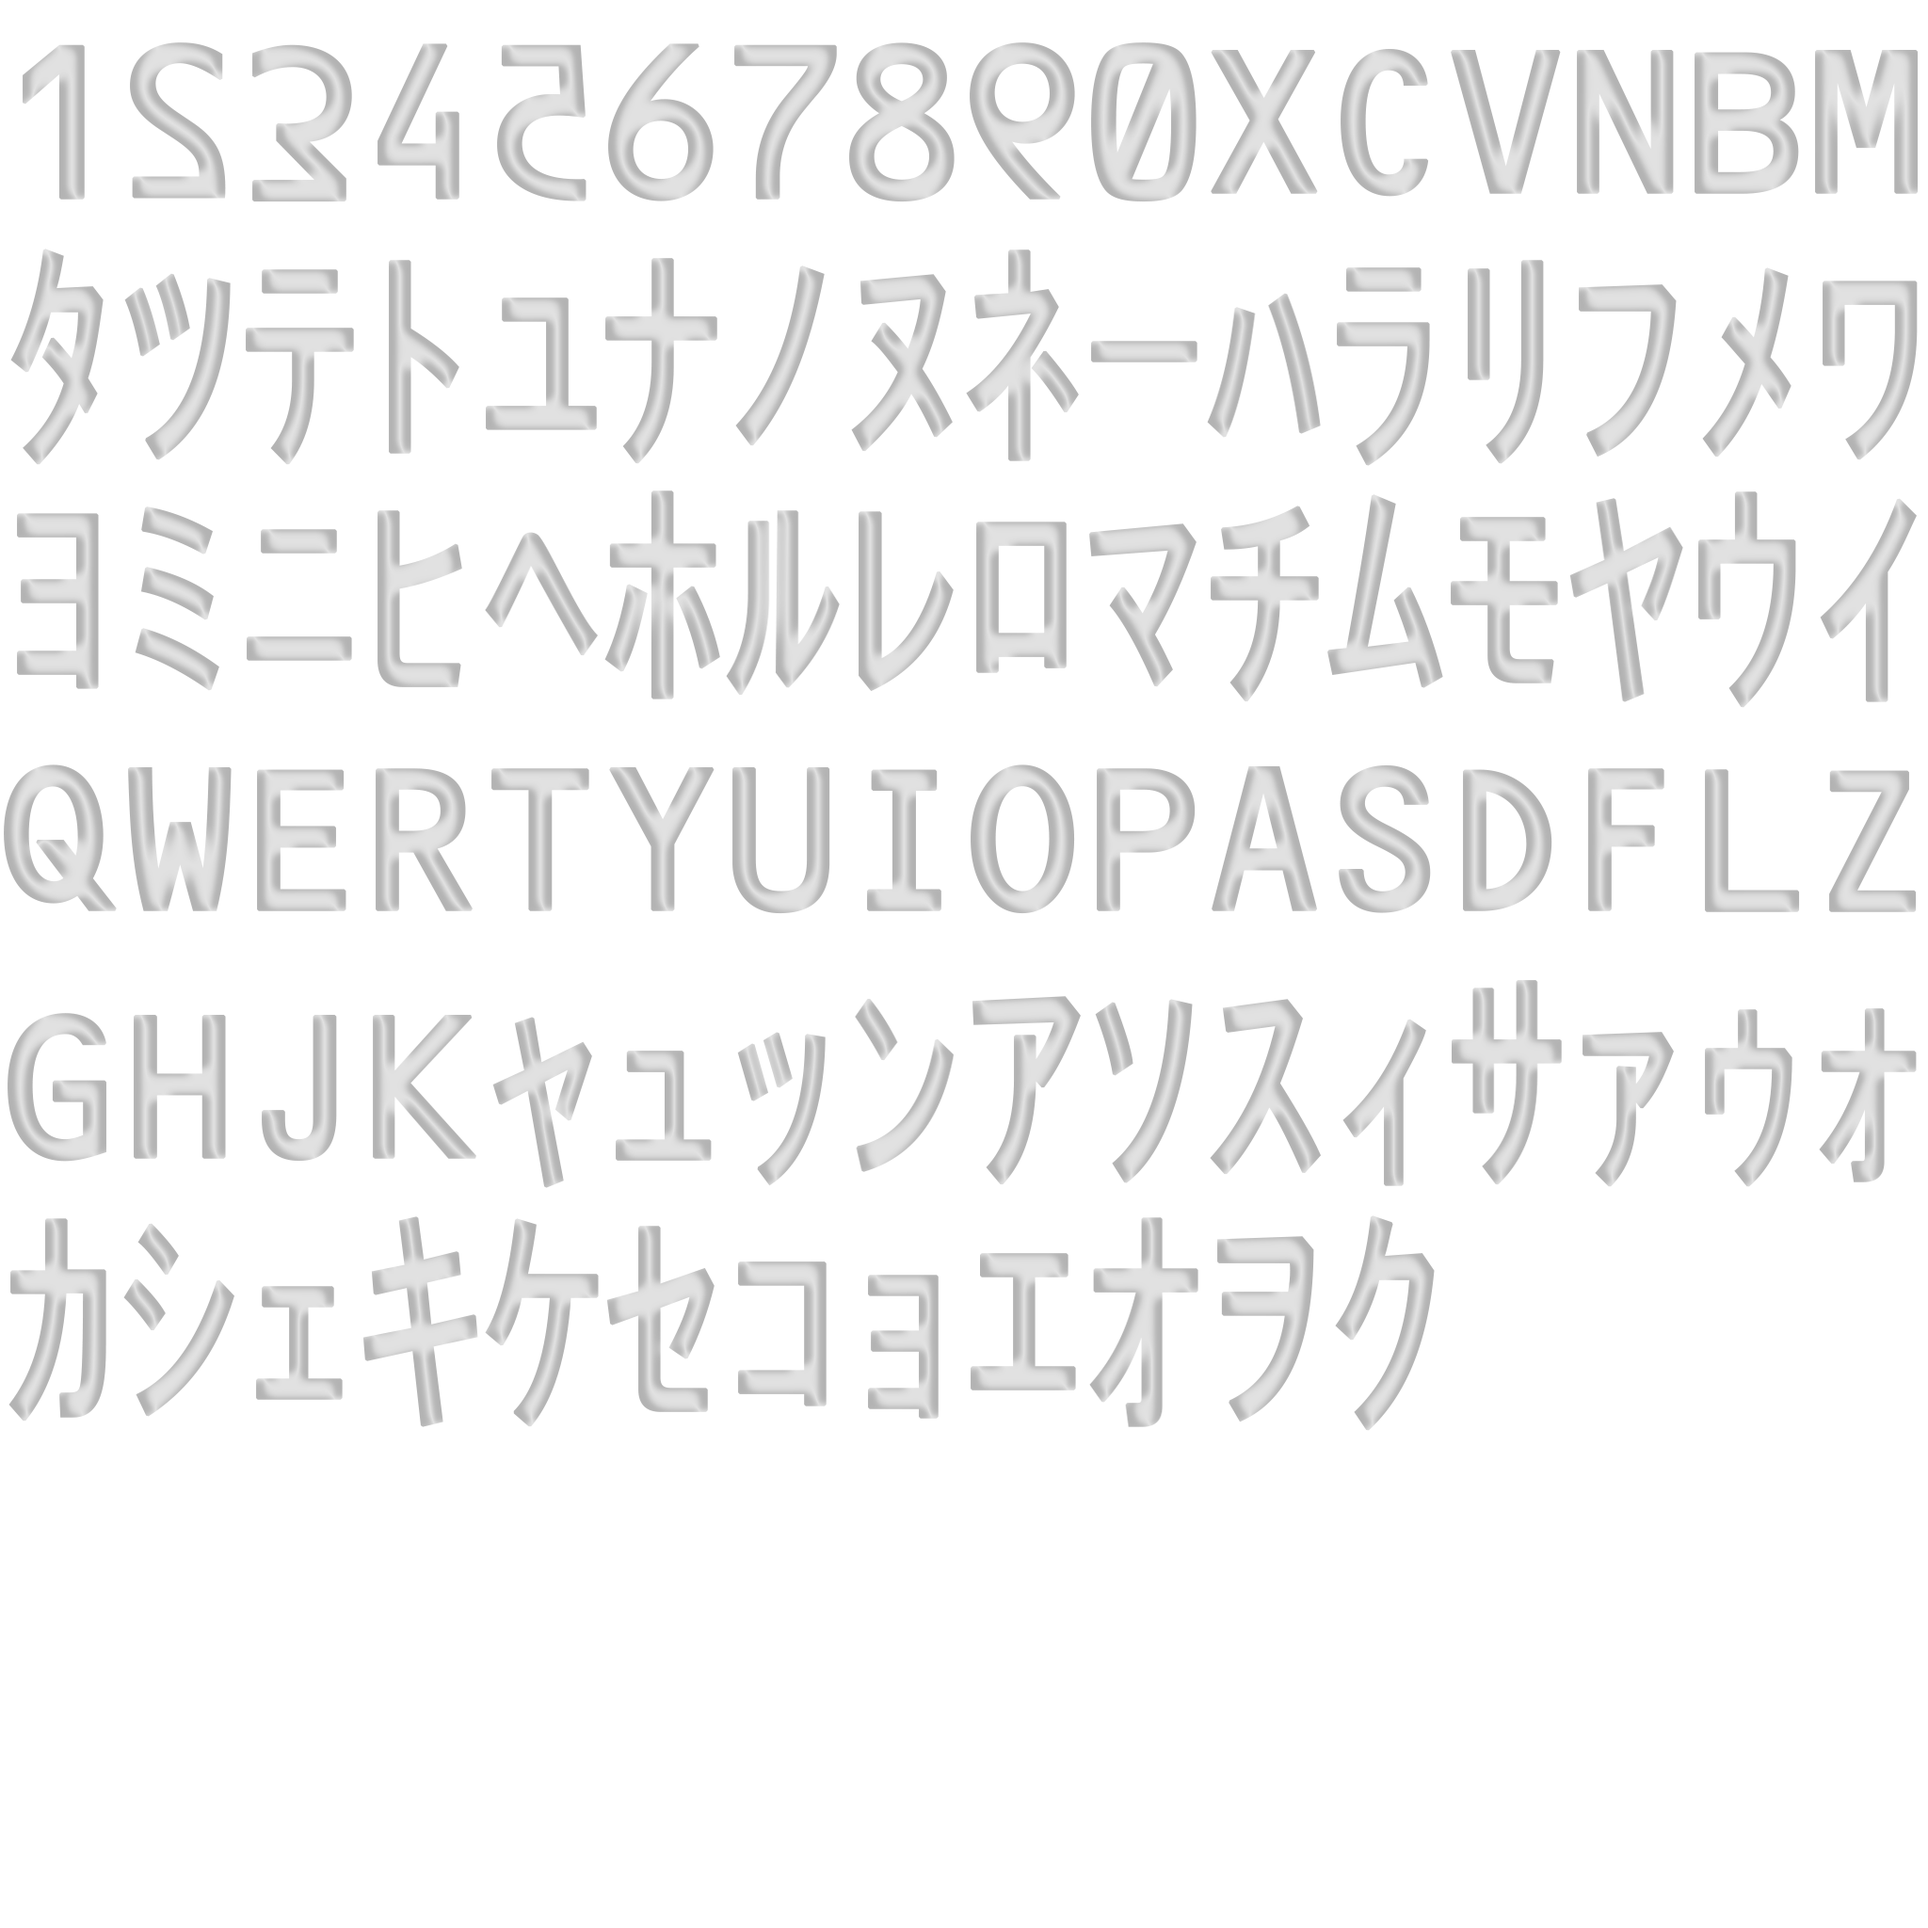
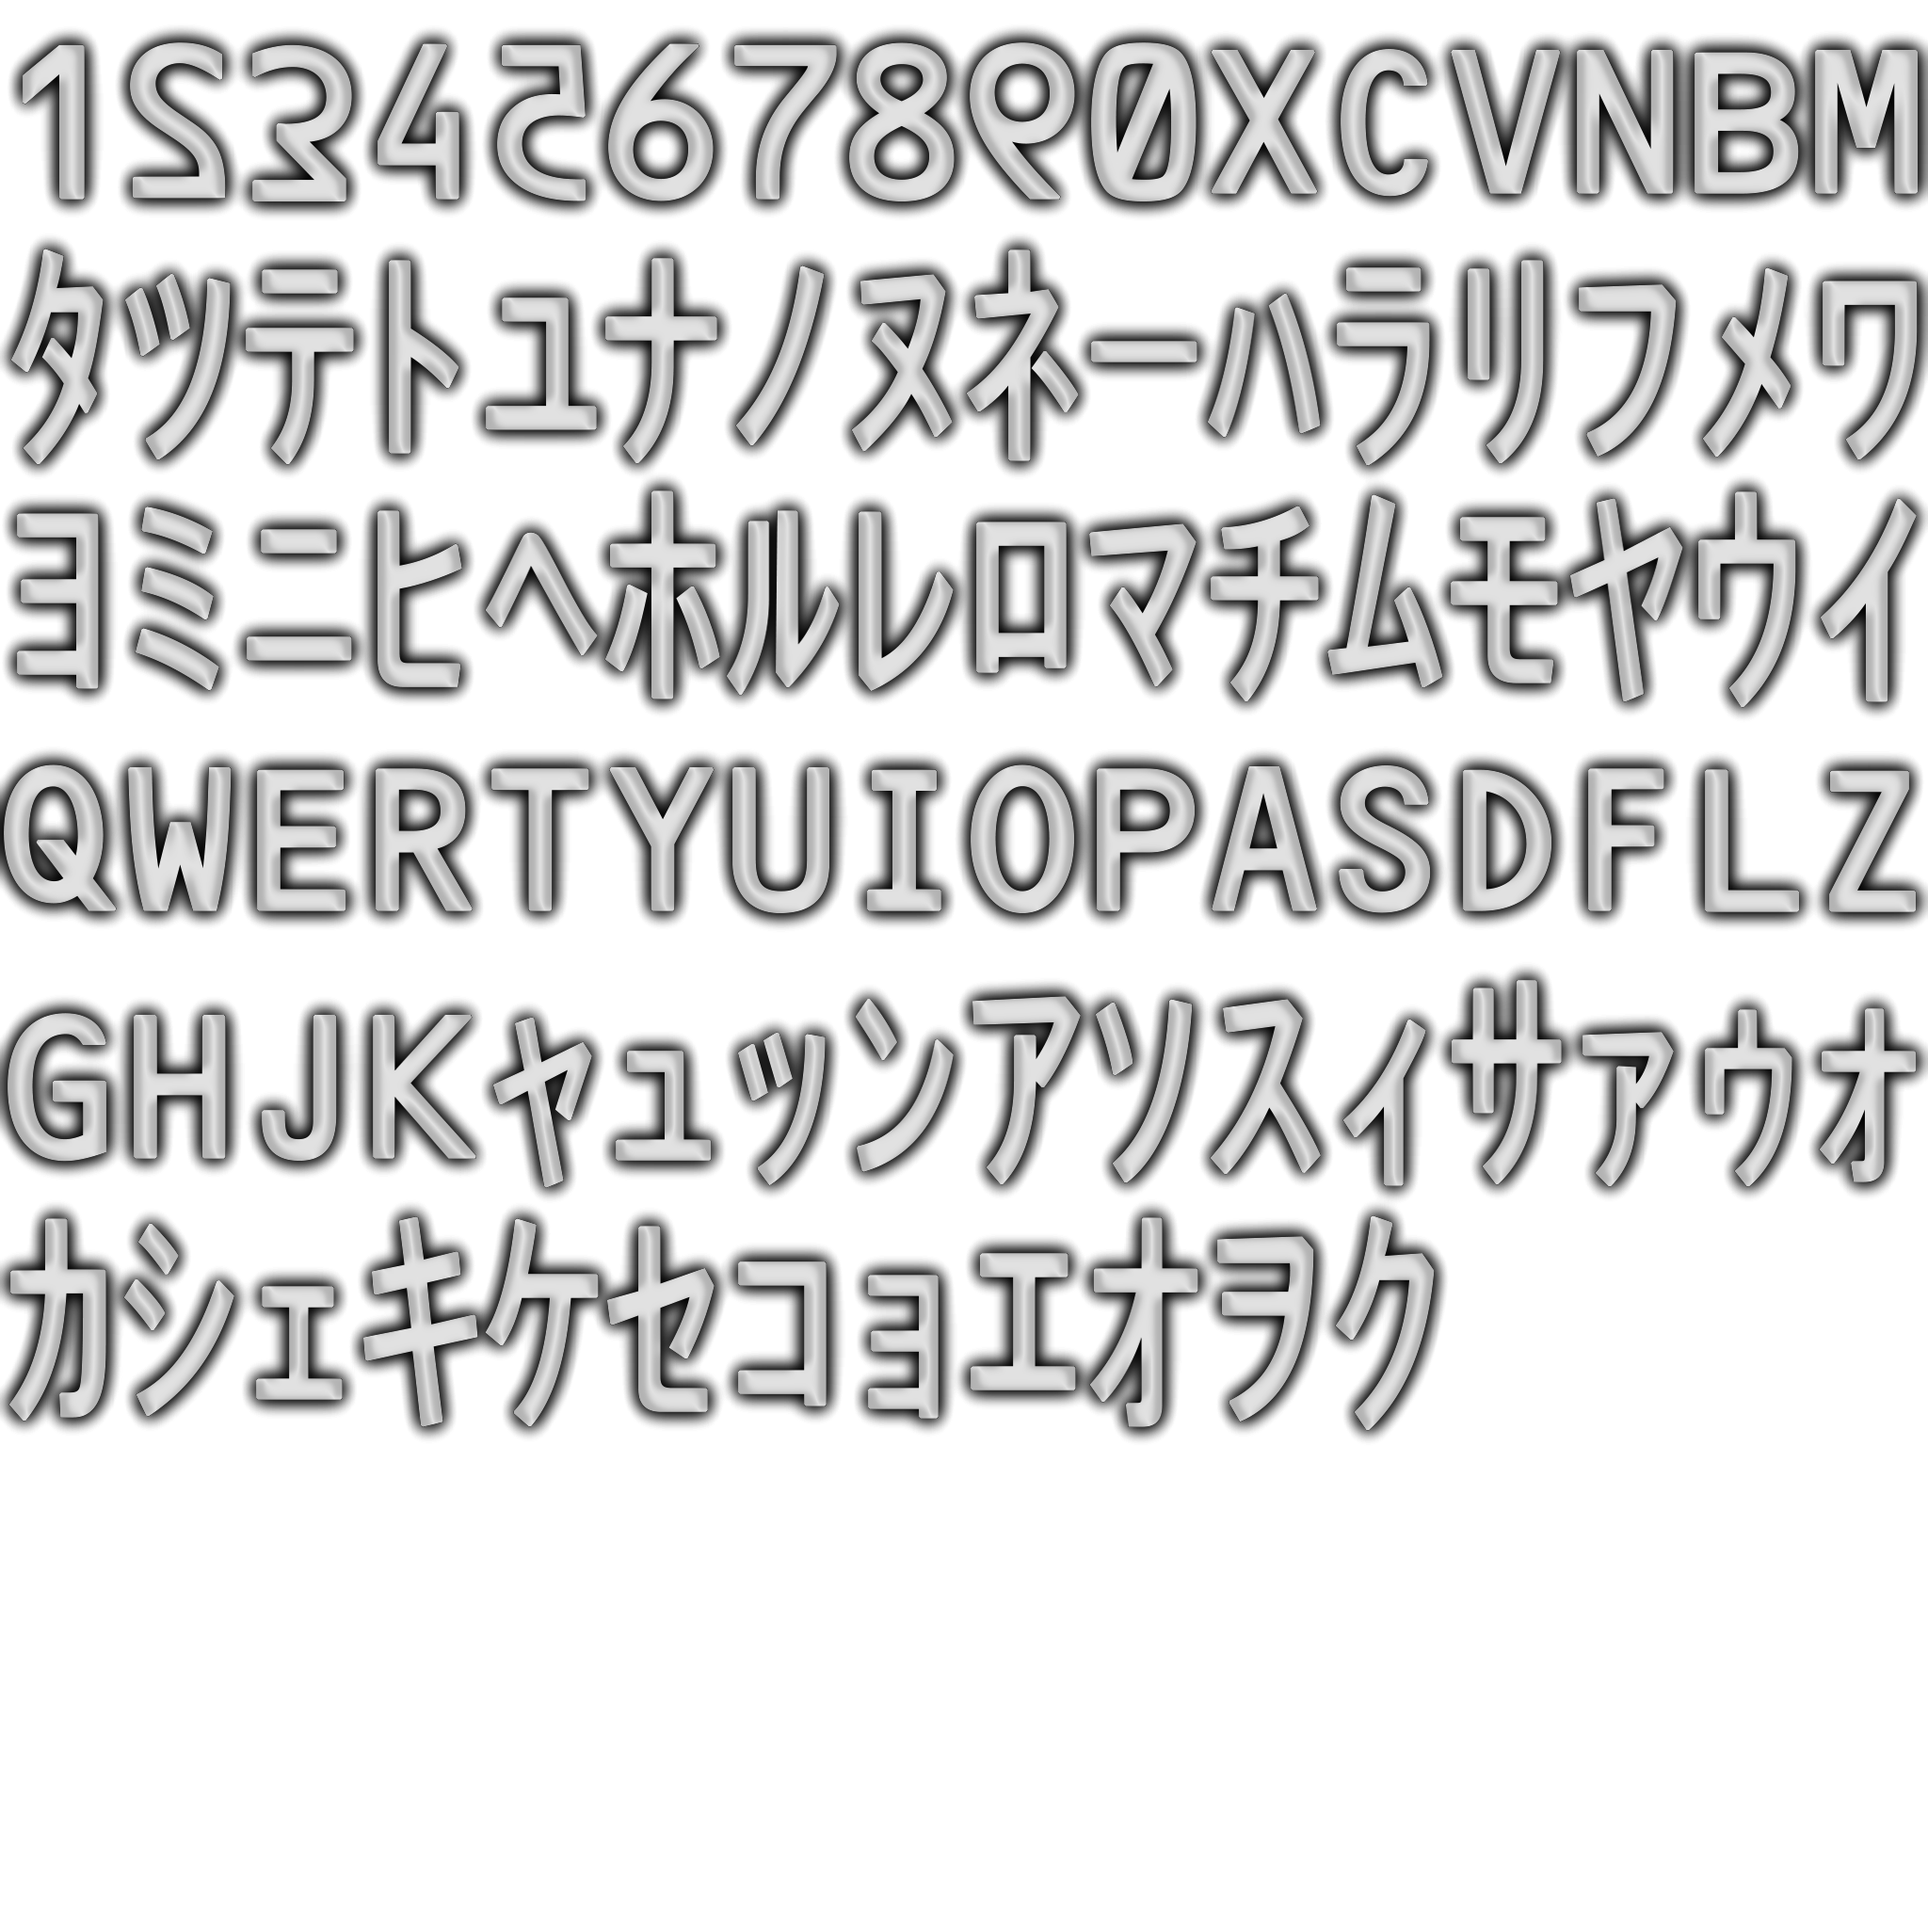
More config and default settings

Changed region(s): [[0.0, 0.0, 1.0, 0.75]]

diff --git a/MatrixScreen/MatrixEngine/Glyph.cs b/MatrixScreen/MatrixEngine/Glyph.cs
@@ -1,5 +1,6 @@
 using System;
 using System.Configuration;
+using System.Net.Configuration;
 using FerretLib.SFML;
 using SFML.Graphics;
 using SFML.Window;
@@ -16,6 +17,10 @@ namespace MatrixScreen
         public const int GLYPH_TEXTURE_SIZE = 2048;
         public const int GLYPH_WIDTH = GLYPH_TEXTURE_SIZE / GLYPH_TEXTURE_COLUMNS;
         public const int GLYPH_HEIGHT = GLYPH_TEXTURE_SIZE / GLYPH_TEXTURE_ROWS;
+
+        private readonly float _baseOpacity;
+        private readonly float _chanceOfFlicker;
+        private bool _isFlickering;
 
         private readonly TwitchCalculator _twitch;
         private readonly Sprite _sprite;
@@ -50,21 +55,24 @@ namespace MatrixScreen
 
         public Glyph(Vector2f location, float scale)
         {
-            _sprite = new Sprite(_texture) {
+            _sprite = new Sprite(_texture)
+            {
                 Scale = new Vector2f(scale, scale),
-                Position = location,                
+                Position = location,
             };
 
-            var glyphAreaX = (GLYPH_WIDTH * scale);
+            var glyphAreaX = (GLYPH_WIDTH*scale);
             _glyphArea = new IntRect(
-                (int)(location.X - 0.5f * glyphAreaX),
-                (int)location.Y,
-                (int)glyphAreaX,
-                (int)(GLYPH_HEIGHT * scale));
+                (int) (location.X - 0.5f*glyphAreaX),
+                (int) location.Y,
+                (int) glyphAreaX,
+                (int) (GLYPH_HEIGHT*scale));
 
             //_sprite.Origin = new Vector2f(GLYPH_WIDTH * 0.5f * scale, 0);
 
             Index = GetRandom.Int(MAX_INDEX);
+            _baseOpacity = GetRandom.Float(0.75f, 0.9f);
+            _chanceOfFlicker = GetRandom.Float(0, 0.002f);
             _twitch = new TwitchCalculator();
         }
 
@@ -79,7 +87,7 @@ namespace MatrixScreen
                     _sprite.TextureRect.Height*_sprite.Scale.Y, 0, 0);
             }
 
-            _sprite.Draw(target, new RenderStates(BlendMode.Add));
+            _sprite.Draw(target, new RenderStates(BlendMode.Alpha));
         }
 
         public void Update(ChronoEventArgs chronoArgs, IntRect visibleRegion)
@@ -88,12 +96,24 @@ namespace MatrixScreen
 
             _isDraw = modifier > 0;
             if(!_isDraw) return;
+            
+            if(GetRandom.Float(1f) < _chanceOfFlicker) _isFlickering = !_isFlickering;
 
-            _sprite.Color = new Color(0, 255, 0, (byte)(190 * modifier));
+            _sprite.Color = new Color(0, 255, 0, CalculateOpacity());
 
             if (_twitch.IsTriggered(chronoArgs)) {
                 Index = GetRandom.Int(MAX_INDEX);
             }
+        }
+
+        private byte CalculateOpacity()
+        {
+            float multiplier = (_isFlickering)
+                ? GetRandom.Float(0.02f,0.3f)
+                : _baseOpacity + GetRandom.Float(-0.2f, 0.2f);
+            
+            multiplier = Math.Min(1f, multiplier);
+            return (byte) (multiplier*255);
         }
 
         private float GetVisibility(IntRect visibleRegion)

diff --git a/MatrixScreen/Config.cs b/MatrixScreen/Config.cs
@@ -7,17 +7,32 @@ using FerretLib.SFML;
 namespace MatrixScreen
 {
     public static class Config
-    {
-        public const bool IsDebugRendering = true;
-        public const bool IsDebugGlyphStreams = true;
+    {                
+        public const bool IsFullscreen = true;
+        public const bool IsMultipleMonitorEnabled = true;
+        //public const int MaximumGlyphStreams = 50;
+        //public const float GlyphScaleMinimum = 0.02f;
+        //public const float GlyphScaleMaximum = 0.36f;
+        //public const float ChanceOfNewGlyphStream = 0.03f;
+
+        public const bool IsDebugRendering = false;
+        public const bool IsDebugGlyphStreams = false;
+        
+        //public const int MaximumGlyphStreams = 1;
+        //public const bool IsFullscreen = false;
+        //public const bool IsDebugRendering = true;
+        //public const bool IsDebugGlyphStreams = true;
+
+
         public static ViewPortSettings ViewPortSettings = new ViewPortSettings
         {
             IsFullscreen = Config.IsFullscreen,
             IsMultiMonitorEnabled = Config.IsMultipleMonitorEnabled,
-        };
+        };        
 
-        public const bool IsFullscreen = false;
-        public const bool IsMultipleMonitorEnabled = true;
-        public const int MaximumGlyphStreams = 1; // 50;
+        public const int MaximumGlyphStreams = 500;
+        public const float ChanceOfNewGlyphStream = 0.08f;
+        public const float GlyphScaleMinimum = 0.02f;
+        public const float GlyphScaleMaximum = 0.08f;
     }
 }

diff --git a/MatrixScreen/MatrixEngine/GlyphStreamManager.cs b/MatrixScreen/MatrixEngine/GlyphStreamManager.cs
@@ -12,7 +12,7 @@ namespace MatrixScreen
     public class GlyphStreamManager : IEntity
     {
         private const int MAX_STREAMS = Config.MaximumGlyphStreams;
-        private const float CHANCE_OF_NEW_STREAM = 0.01f; // TODO - implement chance of occurring per second, max MAX_STREAMS
+        private const float CHANCE_OF_NEW_STREAM = Config.ChanceOfNewGlyphStream; // TODO - implement chance of occurring per second, max MAX_STREAMS
 
         private readonly Rectangle _workingArea;
         private List<GlyphStream> streams;
@@ -20,7 +20,7 @@ namespace MatrixScreen
         public GlyphStreamManager(Vector2u workingArea)
         {
             _workingArea = workingArea.ToRectangle();
-            streams = new List<GlyphStream>();
+            streams = new List<GlyphStream>();            
         }
 
         private void AddNewGlyphStream()

diff --git a/MatrixScreen/MatrixEngine/GlyphStream.cs b/MatrixScreen/MatrixEngine/GlyphStream.cs
@@ -33,7 +33,7 @@ namespace MatrixScreen
             _workingArea = workingArea;
             movementRate = GetRandom.Float(50, 300);
             var numberOfGlyphs = GetRandom.Int(MIN_GLYPHS, MAX_GLYPHS);
-            scale = GetRandom.Float(0.02f, 0.36f);
+            scale = GetRandom.Float(Config.GlyphScaleMinimum, Config.GlyphScaleMaximum);
             displayDurationMultipier = GetRandom.Float(1f / numberOfGlyphs * 0.5f, 3f);
 
             GlyphPosition = new Vector2f(
